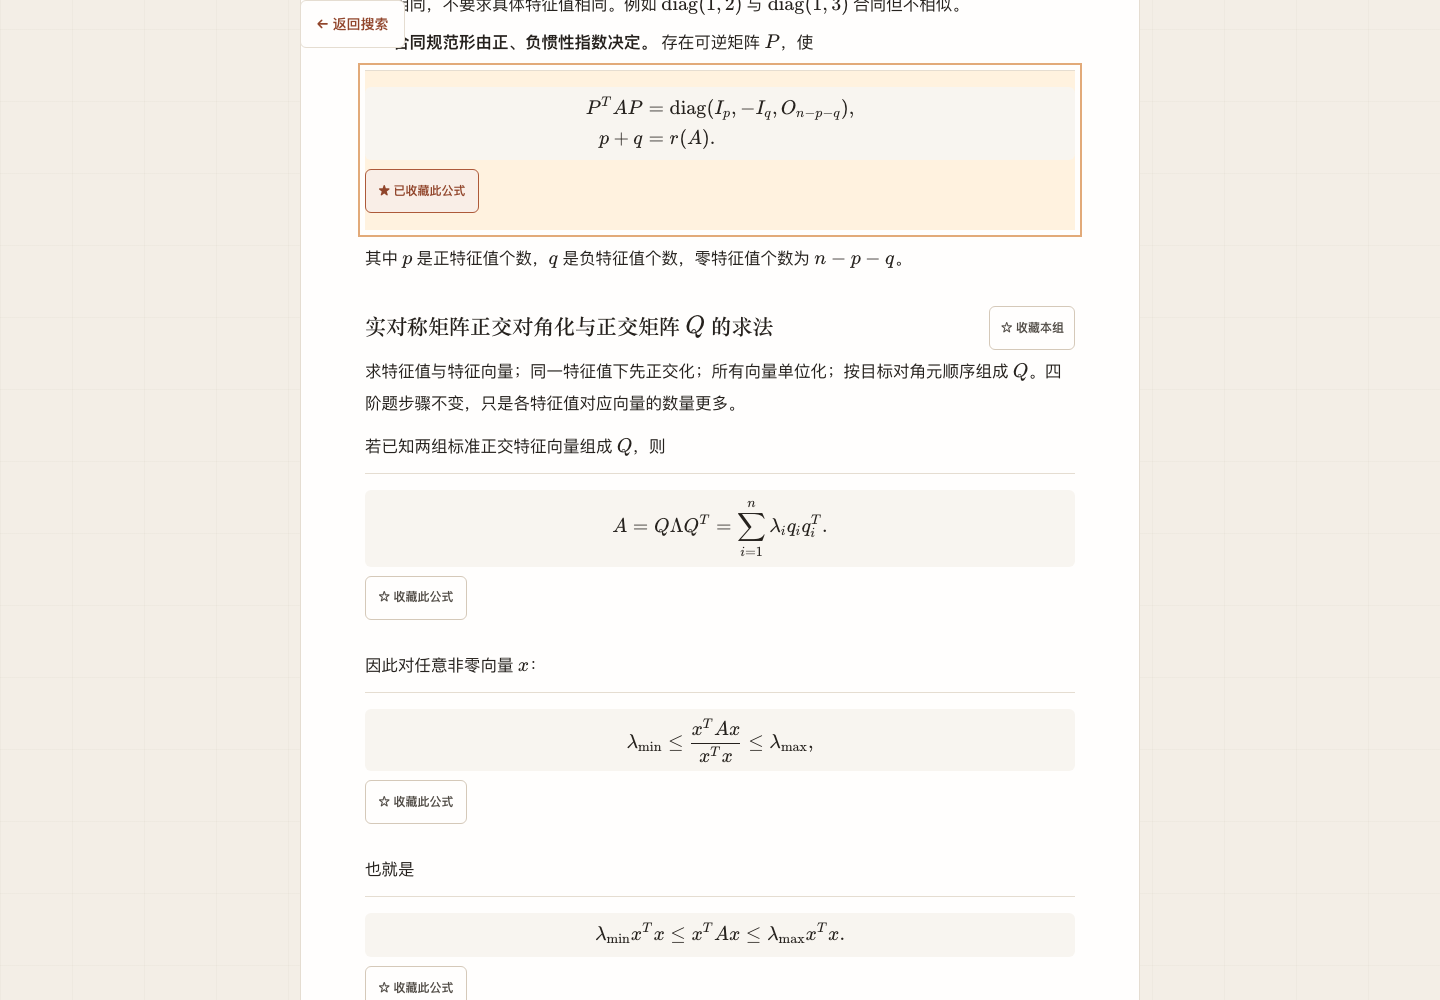
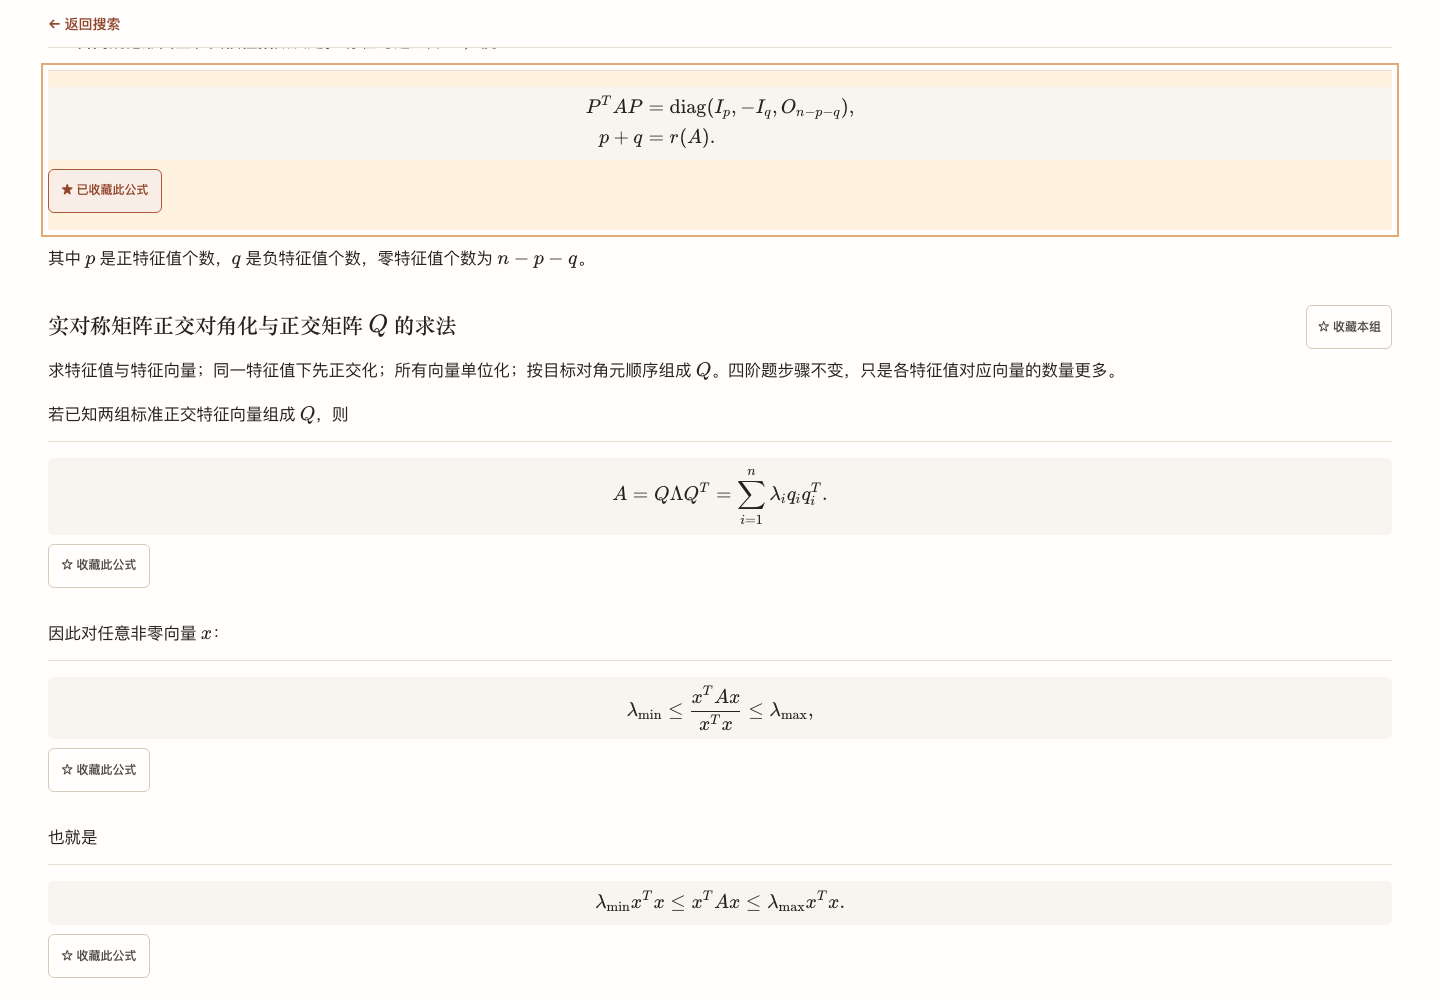
Expand formula reading page to full width

diff --git a/client/src/views/KnowledgePage.vue b/client/src/views/KnowledgePage.vue
@@ -138,11 +138,12 @@ if (!route.params.chapterId) {
 </template>
 
 <style scoped>
-.knowledge-page { min-height: 100vh; }
-main { width: min(840px, calc(100% - 48px)); margin: 0 auto; padding: 28px 0 88px; }
-.back-link { position: sticky; top: 0; z-index: 10; display: inline-flex; align-items: center; min-height: 48px; margin-bottom: 13px; border: 1px solid var(--line); border-radius: 6px; padding: 0 15px; background: var(--paper); color: var(--accent-dark); font-size: 14px; font-weight: 700; }
+.knowledge-page { min-height: 100vh; background: var(--paper); }
+.knowledge-page :deep(.header-inner) { width: calc(100% - 96px); max-width: none; }
+main { width: 100%; margin: 0; padding: 24px 48px 88px; }
+.back-link { position: sticky; top: 0; z-index: 10; display: flex; align-items: center; width: 100%; min-height: 48px; margin-bottom: 13px; border-bottom: 1px solid var(--line); background: var(--paper); color: var(--accent-dark); font-size: 14px; font-weight: 700; }
 .back-link:hover { text-decoration: underline; text-underline-offset: 4px; }
-article { min-width: 0; border: 1px solid var(--line); border-radius: 10px; padding: 48px clamp(26px, 6vw, 64px) 64px; background: var(--paper); }
+article { width: 100%; min-width: 0; padding: 28px 0 64px; background: var(--paper); }
 .chapter-header { border-bottom: 1px solid var(--line); padding-bottom: 32px; }
 .chapter-header span { color: var(--accent-dark); font-size: 13px; font-weight: 700; }
 h1 { margin: 10px 0 12px; font-family: var(--serif); font-size: clamp(34px, 4vw, 46px); line-height: 1.3; }
@@ -154,10 +155,11 @@ h1 { margin: 10px 0 12px; font-family: var(--serif); font-size: clamp(34px, 4vw,
 .chapter-section :deep(h5.search-target), .chapter-section :deep(.formula-unit.search-target) { background: #fff2df; outline: 2px solid #e2aa79; outline-offset: 5px; }
 .chapter-section :deep(.anchor-favorite-button) { float: right; min-height: 44px; margin: -4px 0 4px 14px; border: 1px solid var(--line-strong); border-radius: 6px; padding: 0 10px; background: var(--paper); color: var(--ink-soft); font-family: system-ui, sans-serif; font-size: 12px; font-weight: 600; }
 .chapter-section :deep(.anchor-favorite-button:hover), .chapter-section :deep(.anchor-favorite-button.active) { border-color: var(--accent); background: var(--accent-tint); color: var(--accent-dark); }
-.bottom-back { position: static; margin: 18px 0 0; }
+.bottom-back { position: static; width: fit-content; margin: 18px 0 0; border: 0; }
 @media (max-width: 700px) {
-  main { width: calc(100% - 28px); padding-top: 14px; }
-  article { padding: 28px 19px 40px; }
+  .knowledge-page :deep(.header-inner) { width: calc(100% - 28px); }
+  main { padding: 14px 14px 64px; }
+  article { padding: 28px 0 40px; }
   .chapter-section { padding-top: 28px; }
   .chapter-section > h2 { font-size: 23px; }
   .chapter-section :deep(.anchor-favorite-button) { float: none; display: block; margin: 10px 0 0; }
